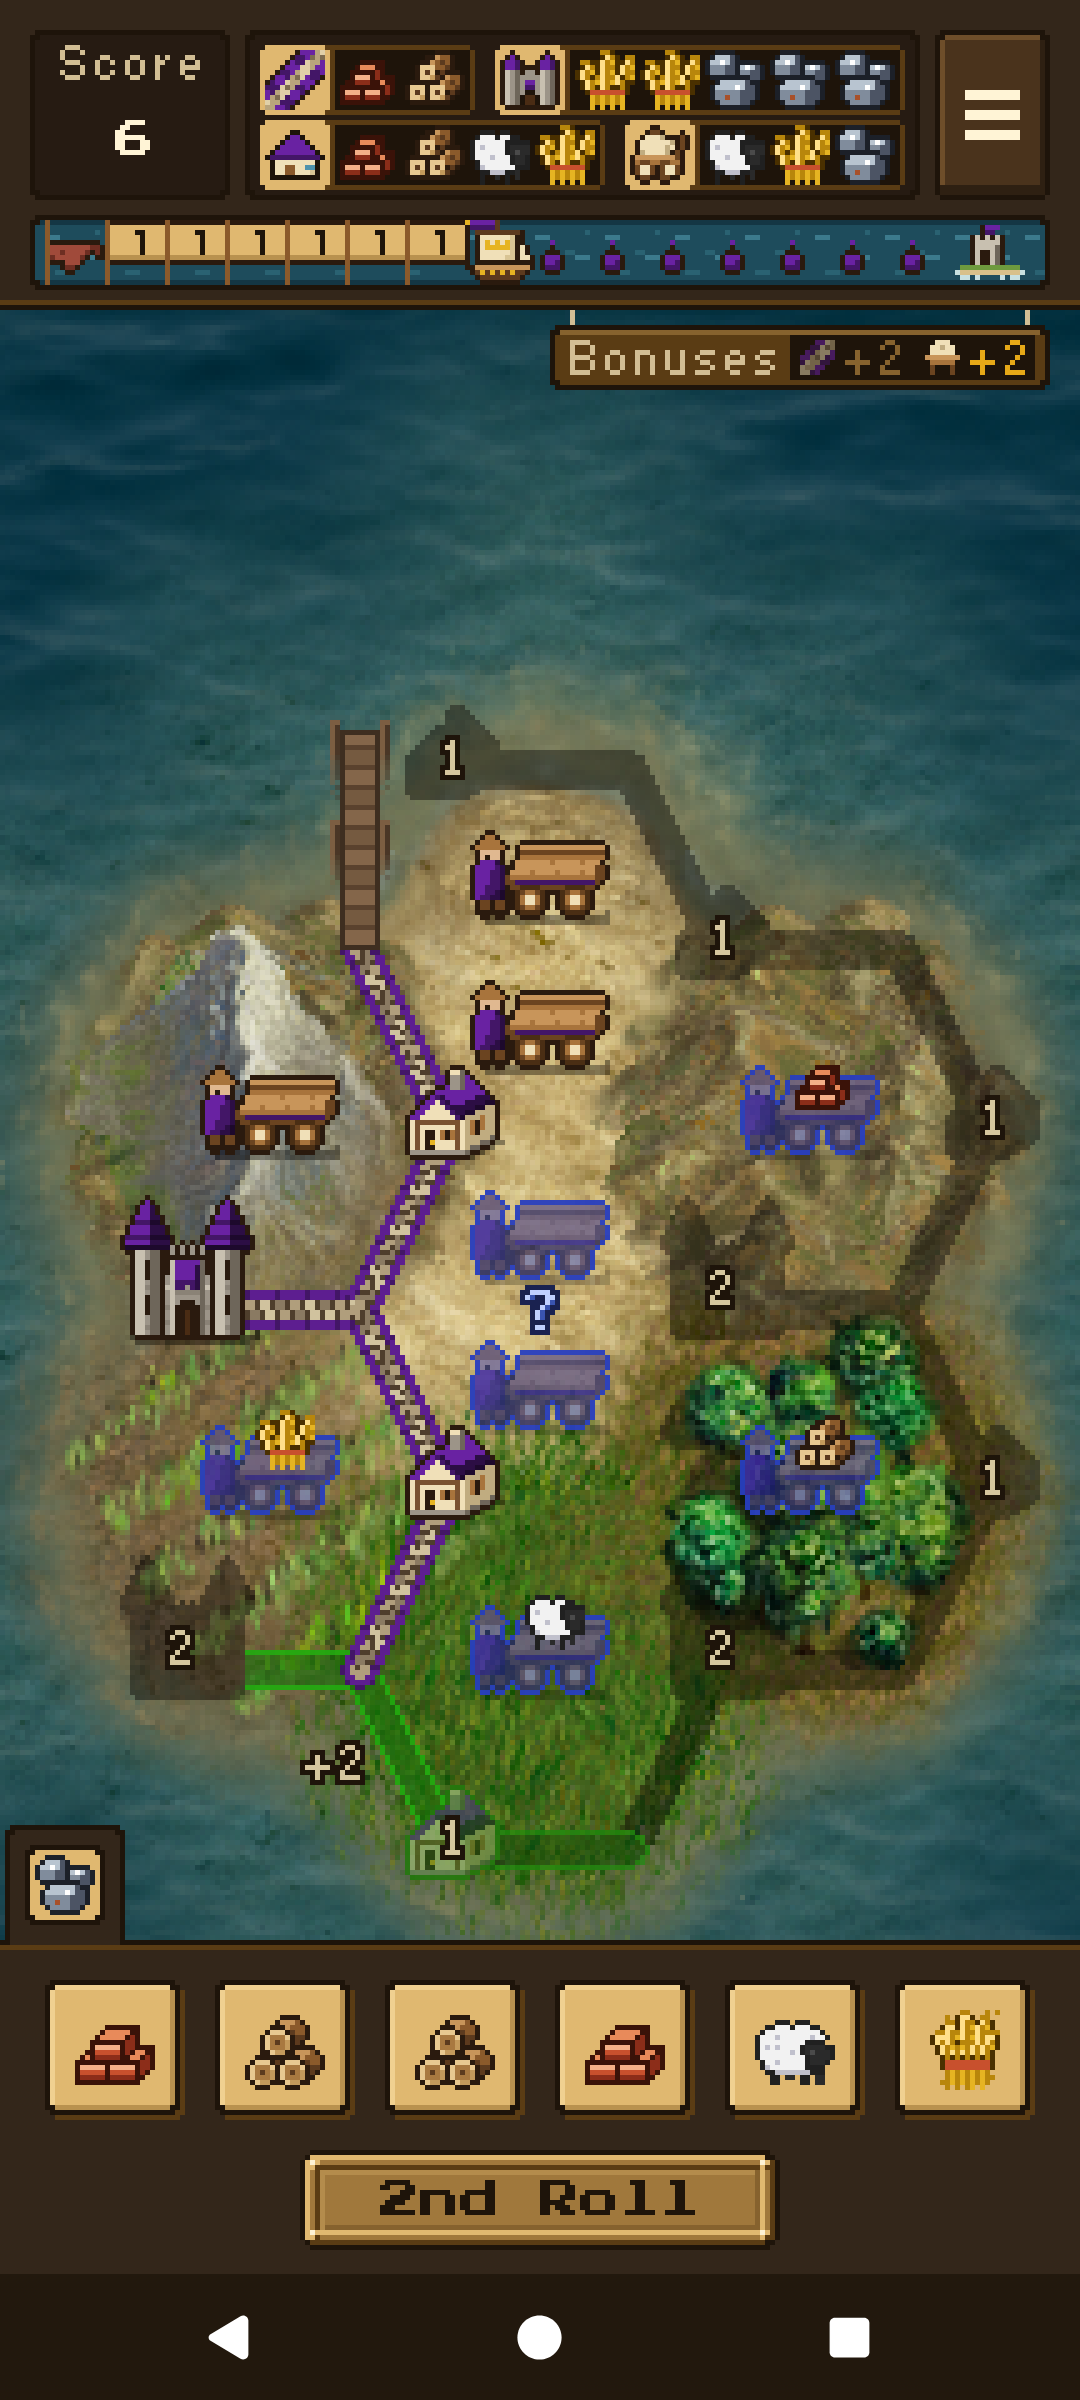
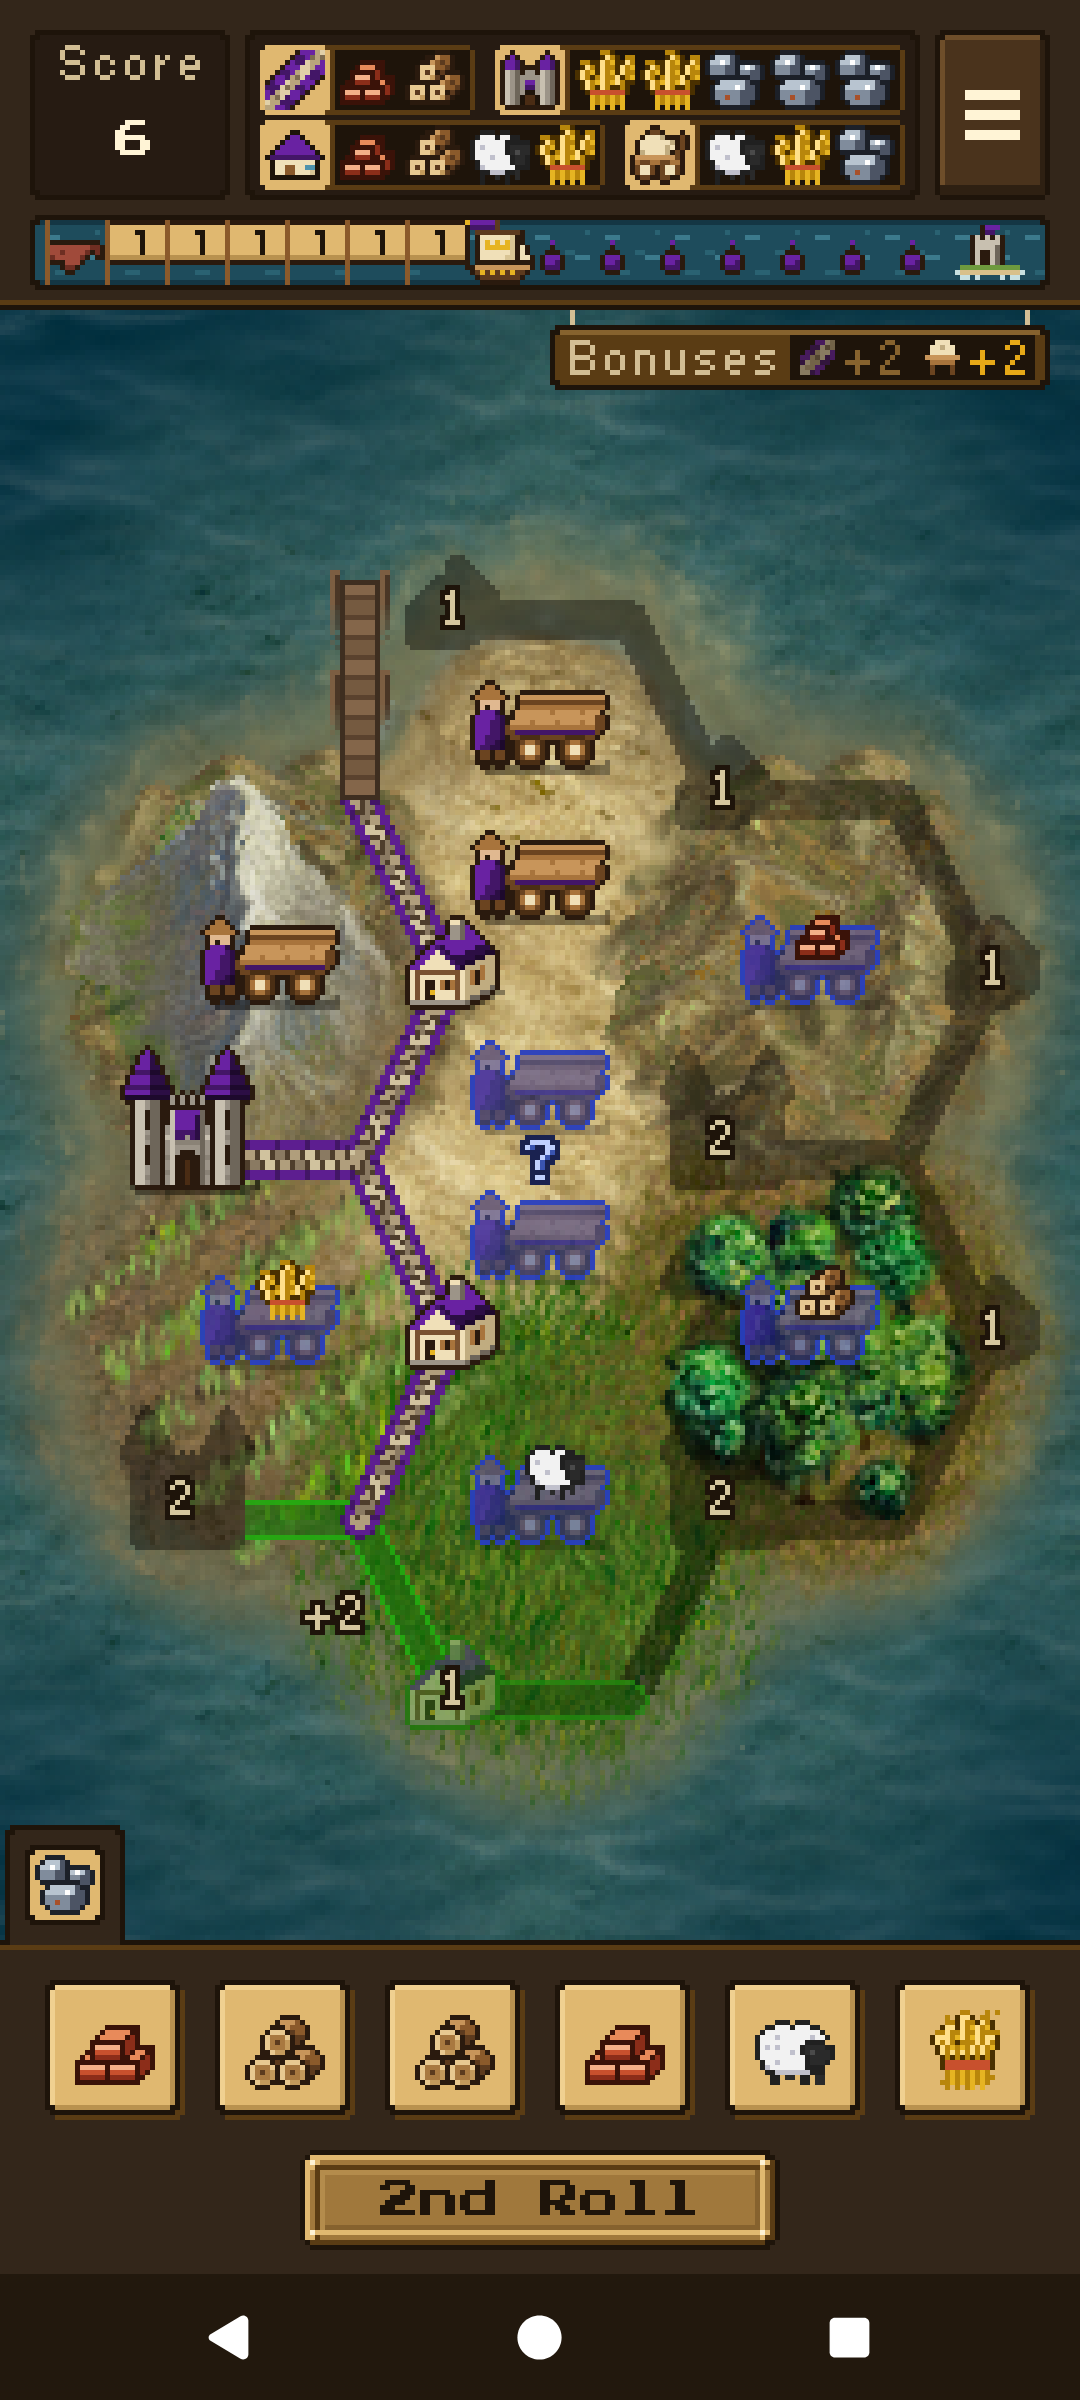
Raise the map 15 pixels above centre instead of dropping it (#7)
The drop went the wrong way. With the map 15 art pixels above the middle, it feels centred, since
the island carries more visual weight than the masthead. The masthead stops at the top bar on
screens without the room, and the README screenshots are retaken.

diff --git a/app/src/test/java/com/ridgelineapps/resdicegame/VoyageTest.java b/app/src/test/java/com/ridgelineapps/resdicegame/VoyageTest.java
@@ -563,7 +563,7 @@ public class VoyageTest {
    @Test
    public void theFarStopOnEachScreenIsLevelWithTheDockAndShowsItsBow() throws IOException {
       boolean[][] ship = mask(read("piece_kingship"));
-      Pt[] boards = { new Pt(-144, 16), new Pt(-132, -22) };
+      Pt[] boards = { new Pt(-144, -14), new Pt(-132, -32) };
       for(int i = 0; i < SCREENS.length; i++) {
          int[] shown = shown(MapDef.TARNHOLM, SCREENS[i]);
          Pt origin = Voyage.boardOrigin(SCREENS[i][0], GameView.TOP_H, SCREENS[i][1] - GameView.BOTTOM_H - SCREENS[i][3]);
@@ -637,8 +637,8 @@ public class VoyageTest {
    }
 
    /**
-    * The map sits MAP_DROP below the middle of the water between the bars, whatever the screen,
-    * but never with the island's foot under the bottom bar.
+    * The map sits MAP_RAISE above the middle of the water between the bars, but never with the
+    * masthead under the top bar, and never with the island's foot under the bottom bar.
     */
    @Test
    public void theMapWithTheShipInHarbourIsCentredBetweenTheBars() {
@@ -647,12 +647,14 @@ public class VoyageTest {
          Pt at = Voyage.boardOrigin(216, bar[0], bar[1]);
          int above = at.y + Voyage.HARBOUR_TOP - bar[0];
          int below = bar[1] - (at.y + Voyage.ISLAND_FOOT);
-         assertTrue(bar[0] + ": " + above + " above, " + below + " below", Math.abs(above - below - 2 * Voyage.MAP_DROP) <= 1);
+         assertTrue(bar[0] + ": " + above + " above, " + below + " below", Math.abs(below - above - 2 * Voyage.MAP_RAISE) <= 1);
          assertTrue(above >= 0);
          assertTrue(below >= 0);
       }
-      // The island's foot wins where the drop would push it under the bottom bar
-      assertEquals(375 - Voyage.ISLAND_FOOT, Voyage.boardOrigin(216, 76, 375).y);
+      // Too little water to raise it all the way: the masthead stops at the top bar
+      assertEquals(76 - Voyage.HARBOUR_TOP, Voyage.boardOrigin(216, 76, 375).y);
+      // A screen too short to show it all: the island's foot wins, and stays above the bottom bar
+      assertEquals(300 - Voyage.ISLAND_FOOT, Voyage.boardOrigin(216, 62, 300).y);
       assertEquals(300 - Voyage.ISLAND_FOOT, Voyage.boardOrigin(216, 62, 300).y);
    }
 

diff --git a/app/src/main/java/com/ridgelineapps/resdicegame/Voyage.java b/app/src/main/java/com/ridgelineapps/resdicegame/Voyage.java
@@ -77,8 +77,8 @@ final class Voyage {
     */
    static final int HARBOUR_TOP = 94;
    static final int ISLAND_FOOT = 366;
-   /** How far below the exact middle the map sits: the eye weighs the island, not the masthead. */
-   static final int MAP_DROP = 15;
+   /** How far above the exact middle the map sits: the eye weighs the island, not the masthead. */
+   static final int MAP_RAISE = 15;
 
    private Voyage() {
    }
@@ -210,11 +210,12 @@ final class Voyage {
     * Where the board's top left goes on the art canvas. Across, the board is centred. Down,
     * what the map shows at its fullest, from the moored ship's masthead to the island's foot,
     * is centred between the top bar (ending at barBottom) and the bottom bar (starting at
-    * trayTop), then dropped by MAP_DROP, on any screen. The island's foot always stays above
-    * the bottom bar, which on a short screen takes up some or all of the drop.
+    * trayTop), then raised by MAP_RAISE, as far as the masthead stays under the top bar. A
+    * screen too short to show all of it keeps the island's foot above the bottom bar.
     */
    static Pt boardOrigin(int artWidth, int barBottom, int trayTop) {
-      int y = (barBottom + trayTop - HARBOUR_TOP - ISLAND_FOOT) / 2 + MAP_DROP;
+      int y = (barBottom + trayTop - HARBOUR_TOP - ISLAND_FOOT) / 2 - MAP_RAISE;
+      y = Math.max(y, barBottom - HARBOUR_TOP);
       return new Pt(artWidth / 2 - Board.CENTRE_X, Math.min(y, trayTop - ISLAND_FOOT));
    }
 
